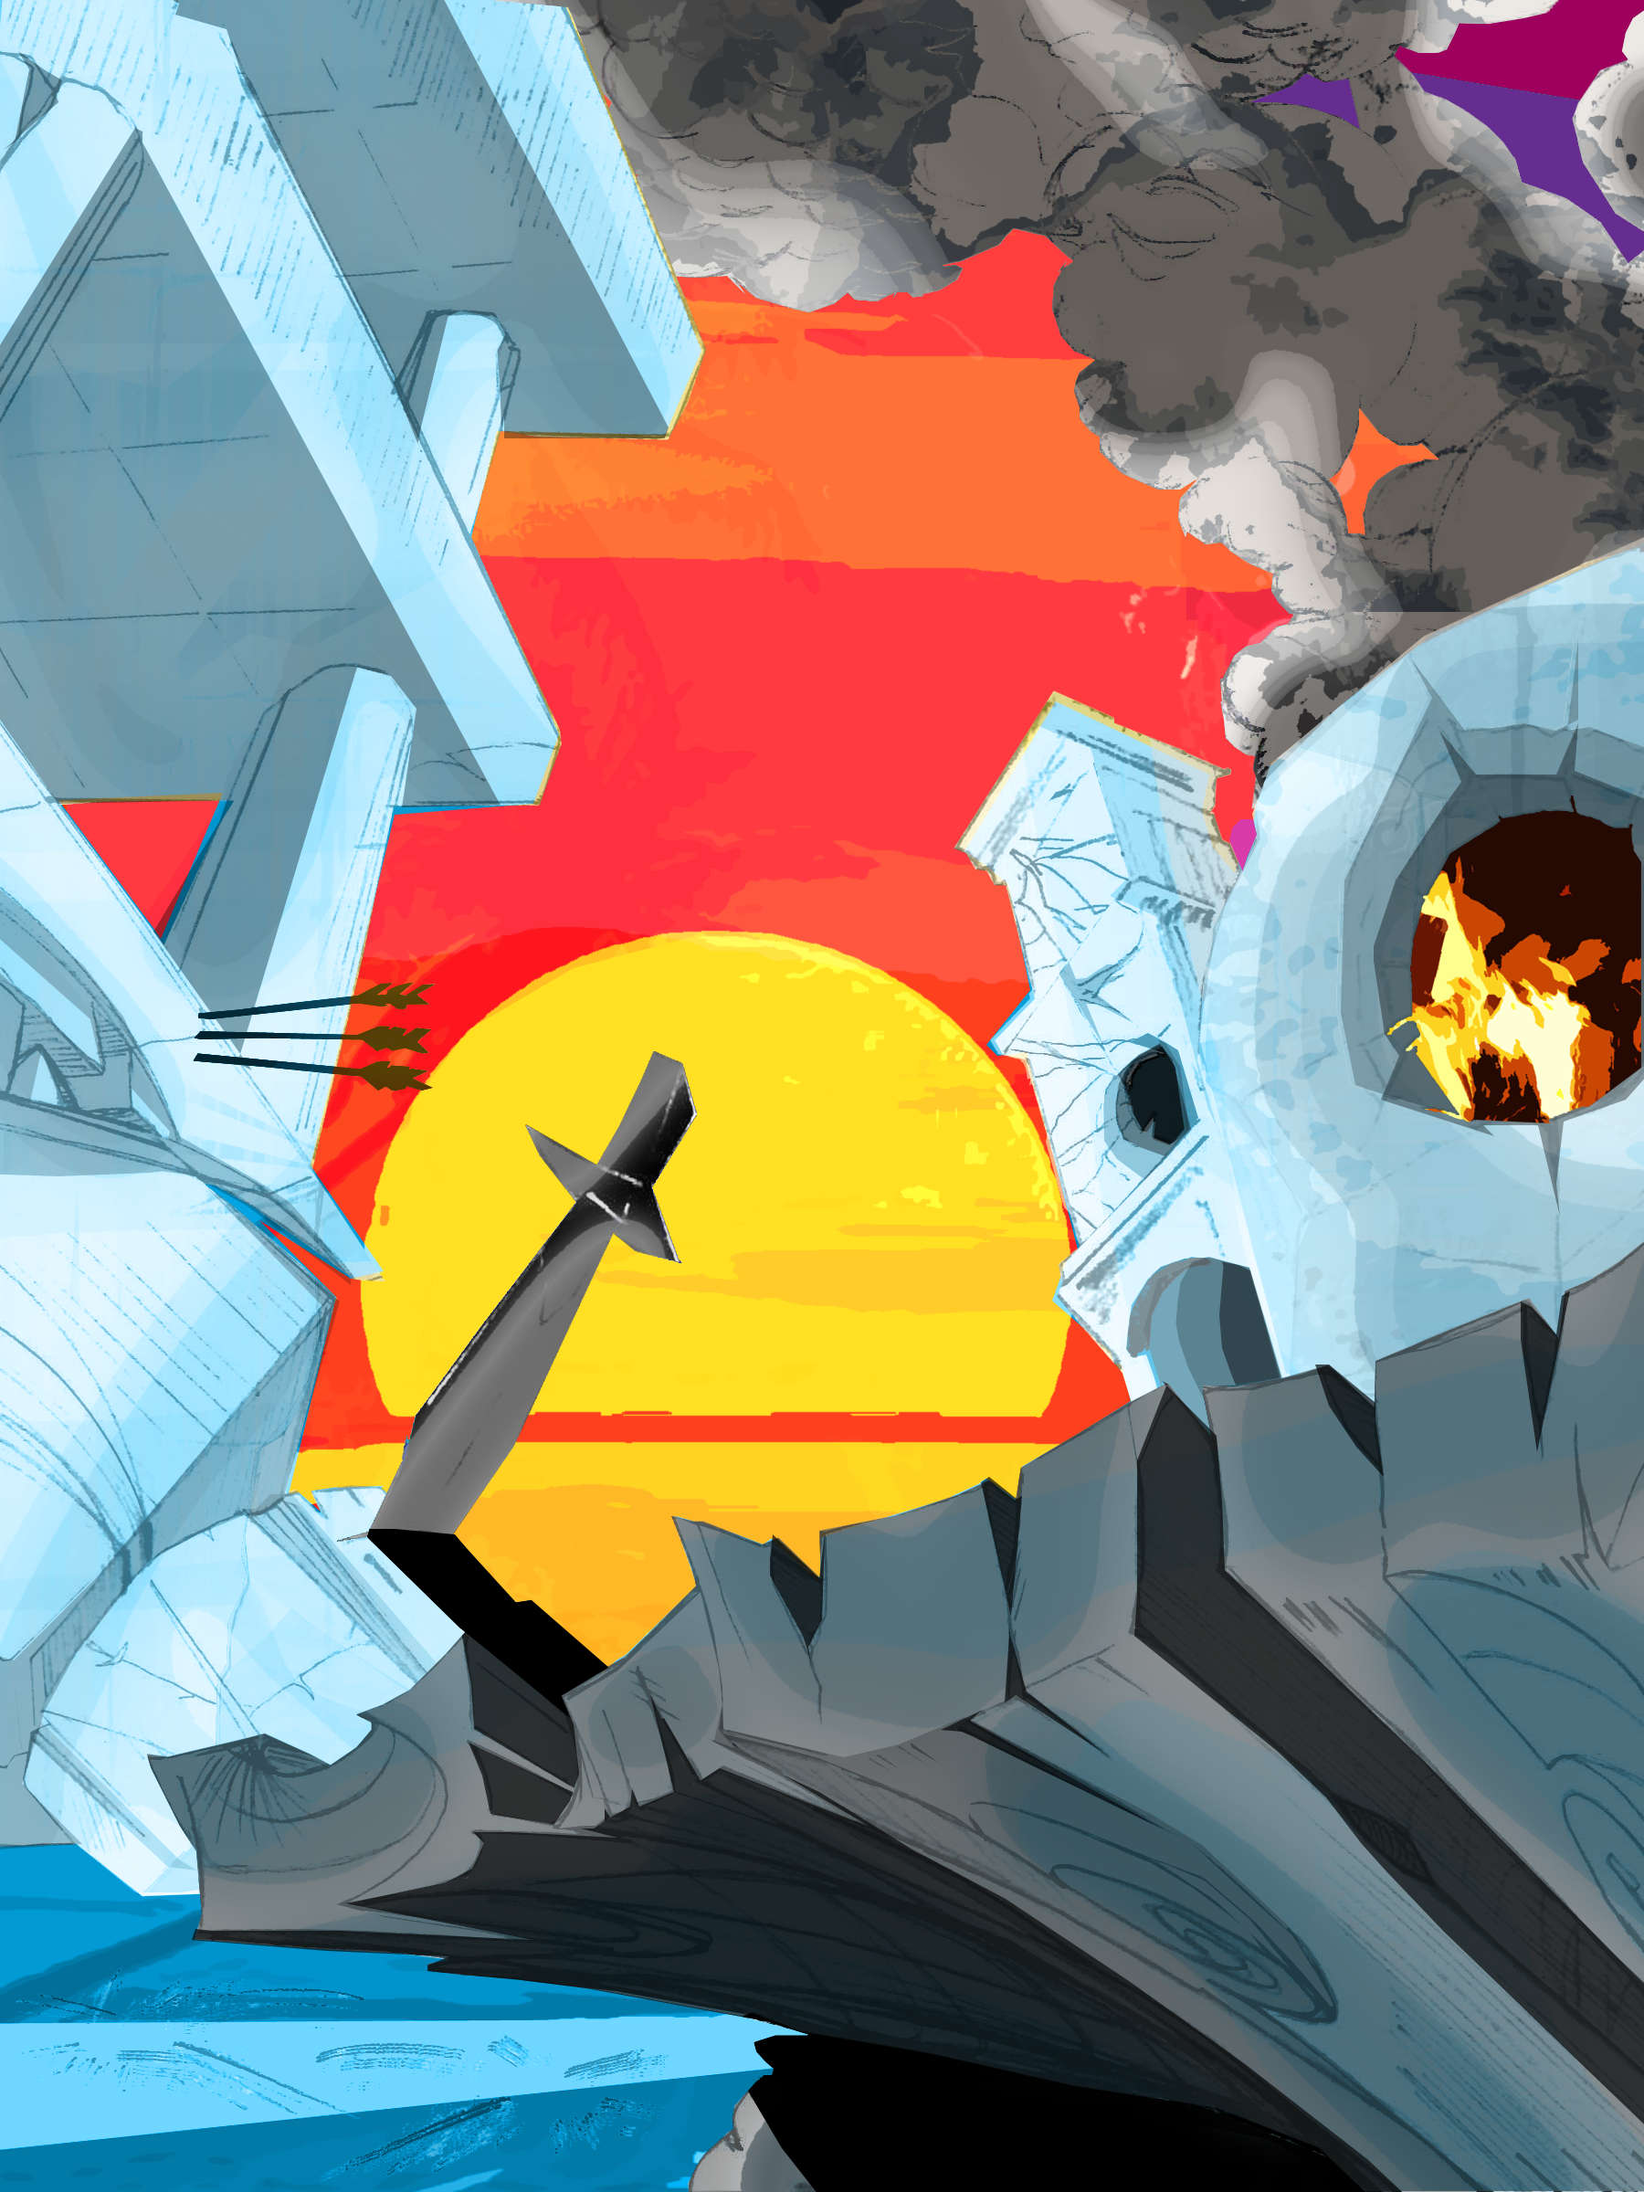
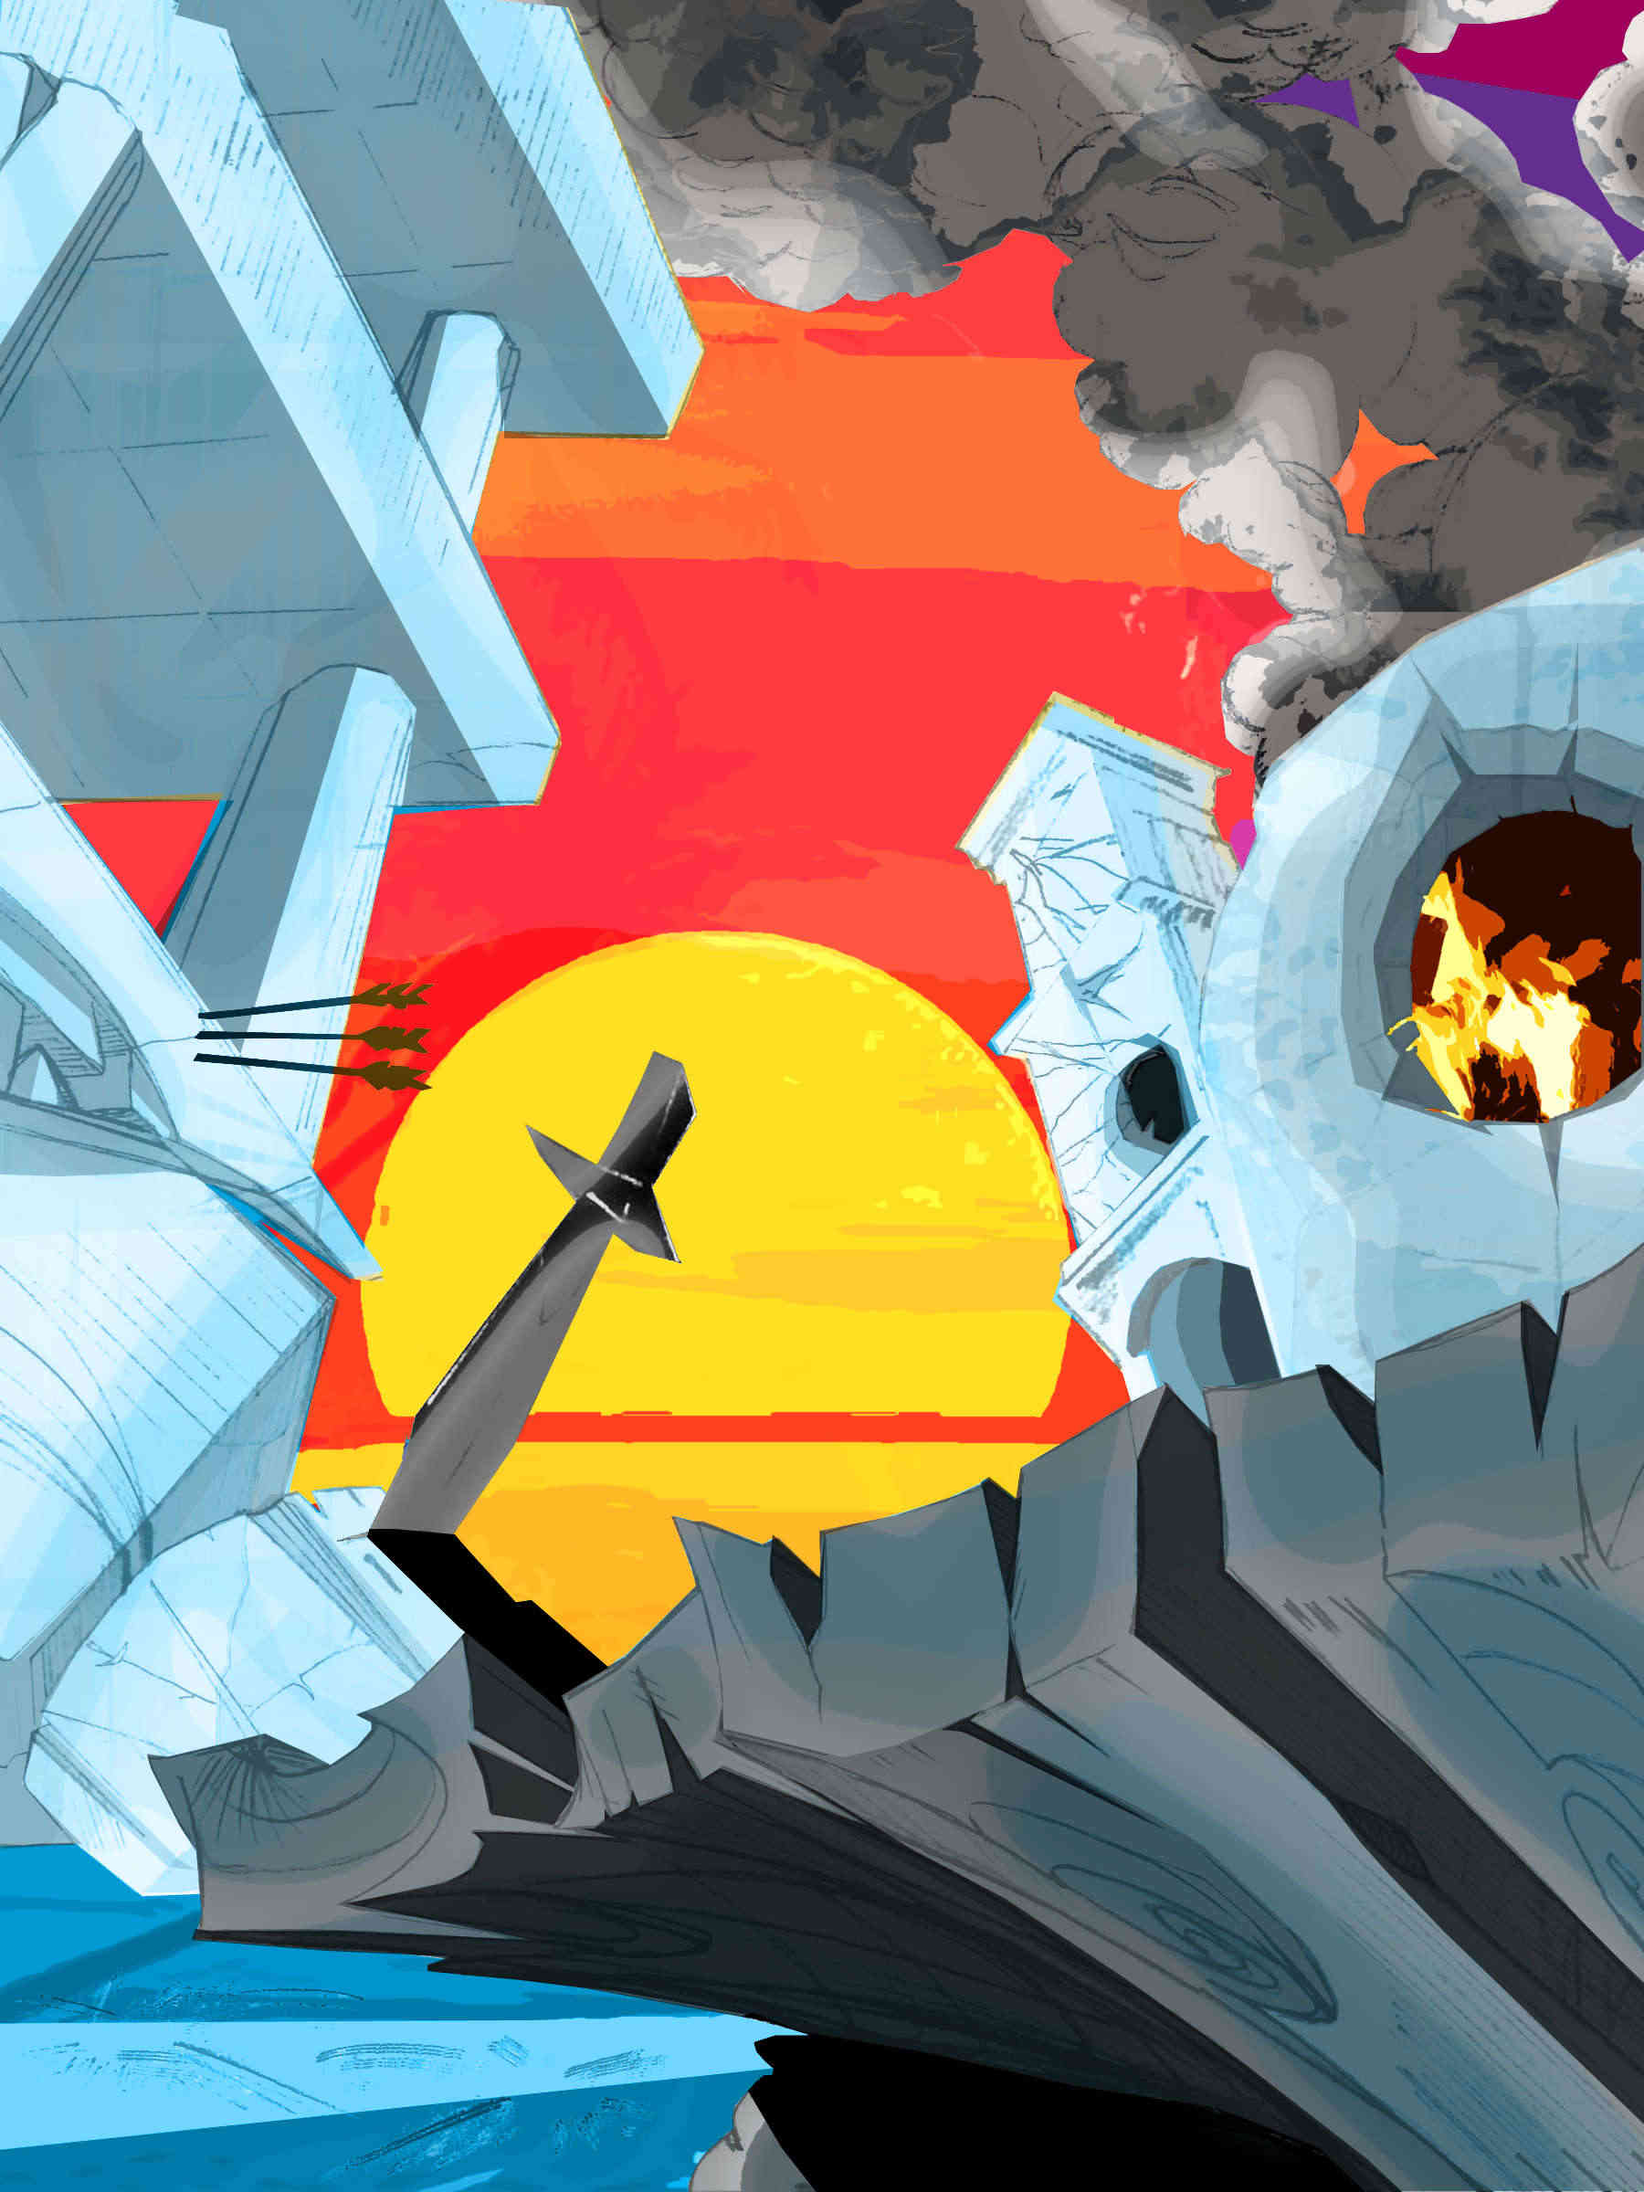
refact png to jpg

Changed region(s): [[0.9022, 0.4375, 0.9333, 0.5], [0.9956, 0.4375, 1.0, 0.4688]]

diff --git a/src/PlayingCard.js b/src/PlayingCard.js
@@ -16,7 +16,7 @@ import vine from './imgs/jonah/vine.jpg';
 import scorching from './imgs/jonah/SEW.jpg';
 
 import paul from './imgs/paul/paul.jpg';
-import priscilla from './imgs/paul/priscilla.png';
+import priscilla from './imgs/paul/priscilla.jpg';
 
 import joshua from './imgs/joshua/joshua.jpg';
 import spies from './imgs/joshua/spies.jpg';
